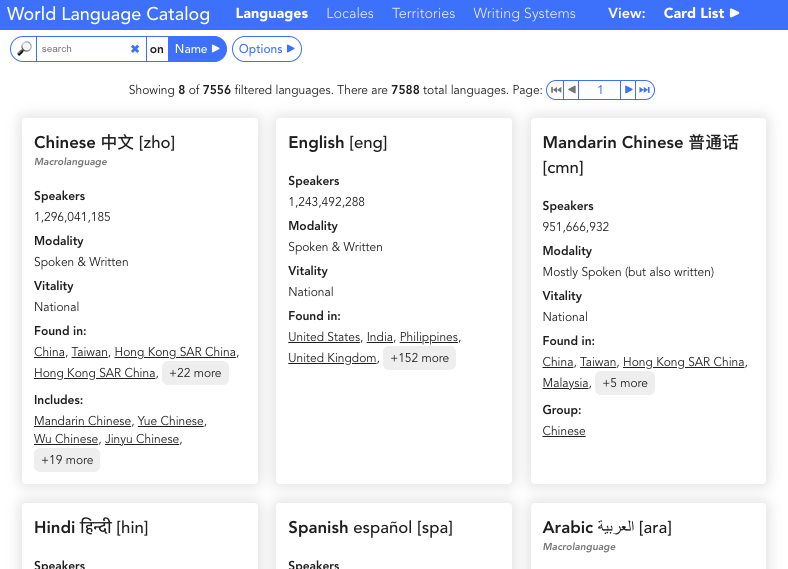
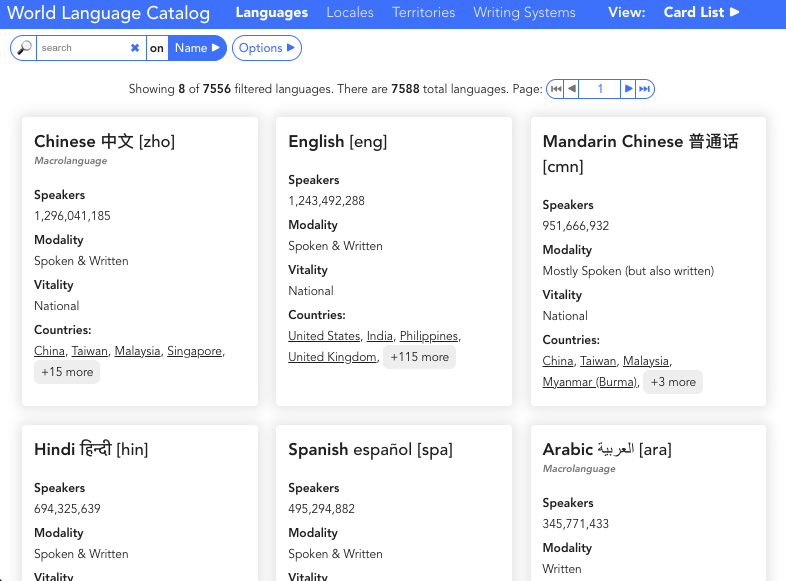
UX: Reduce size of language cards

diff --git a/src/views/language/LanguageCard.tsx b/src/views/language/LanguageCard.tsx
@@ -1,9 +1,12 @@
 import React from 'react';
 
 import { usePageParams } from '../../controls/PageParamsContext';
+import { getSortFunction } from '../../controls/sort';
 import CommaSeparated from '../../generic/CommaSeparated';
 import Highlightable from '../../generic/Highlightable';
-import { LanguageData, LanguageScope } from '../../types/LanguageTypes';
+import { uniqueBy } from '../../generic/setUtils';
+import { TerritoryType } from '../../types/DataTypes';
+import { LanguageData } from '../../types/LanguageTypes';
 import { SearchBy } from '../../types/PageParamTypes';
 import { getObjectSubtitle } from '../common/getObjectName';
 import HoverableObjectName from '../common/HoverableObjectName';
@@ -15,18 +18,13 @@ interface Props {
 
 const LanguageCard: React.FC<Props> = ({ lang, includeRelations }) => {
   const { updatePageParams } = usePageParams();
-  const {
-    childLanguages,
-    ID,
-    locales,
-    medium,
-    nameDisplay,
-    nameEndonym,
-    parentLanguage,
-    populationCited,
-    vitalityEth2013,
-  } = lang;
+  const sortFunction = getSortFunction();
+  const { ID, locales, medium, nameDisplay, nameEndonym, populationCited, vitalityEth2013 } = lang;
   const subtitle = getObjectSubtitle(lang);
+  const countryLocales = uniqueBy(
+    locales.filter((l) => l.territory?.territoryType == TerritoryType.Country).sort(sortFunction),
+    (l) => l.territoryCode,
+  );
 
   return (
     <div>
@@ -59,30 +57,12 @@ const LanguageCard: React.FC<Props> = ({ lang, includeRelations }) => {
         </div>
       )}
 
-      {includeRelations && locales.length > 0 && (
+      {includeRelations && countryLocales.length > 0 && (
         <div>
-          <h4>Found in:</h4>
+          <h4>Countries:</h4>
           <CommaSeparated>
-            {Object.values(locales).map((locale) => (
+            {countryLocales.map((locale) => (
               <HoverableObjectName key={locale.ID} labelSource="territory" object={locale} />
-            ))}
-          </CommaSeparated>
-        </div>
-      )}
-      {includeRelations &&
-        parentLanguage != null &&
-        parentLanguage.scope != LanguageScope.Family && (
-          <div>
-            <h4>Group:</h4>
-            <HoverableObjectName object={parentLanguage} />
-          </div>
-        )}
-      {includeRelations && Object.keys(childLanguages).length > 0 && (
-        <div>
-          <h4>Includes:</h4>
-          <CommaSeparated>
-            {Object.values(childLanguages).map((childLanguage) => (
-              <HoverableObjectName key={childLanguage.ID} object={childLanguage} />
             ))}
           </CommaSeparated>
         </div>

diff --git a/src/generic/setUtils.tsx b/src/generic/setUtils.tsx
@@ -1,0 +1,11 @@
+export function uniqueBy<T>(items: T[], keyFn: (item: T) => string | number): T[] {
+  return Object.values(
+    items.reduce<Record<string | number, T>>((dict, item) => {
+      const key = keyFn(item);
+      if (dict[key] == null) {
+        dict[key] = item;
+      }
+      return dict;
+    }, {}),
+  );
+}
